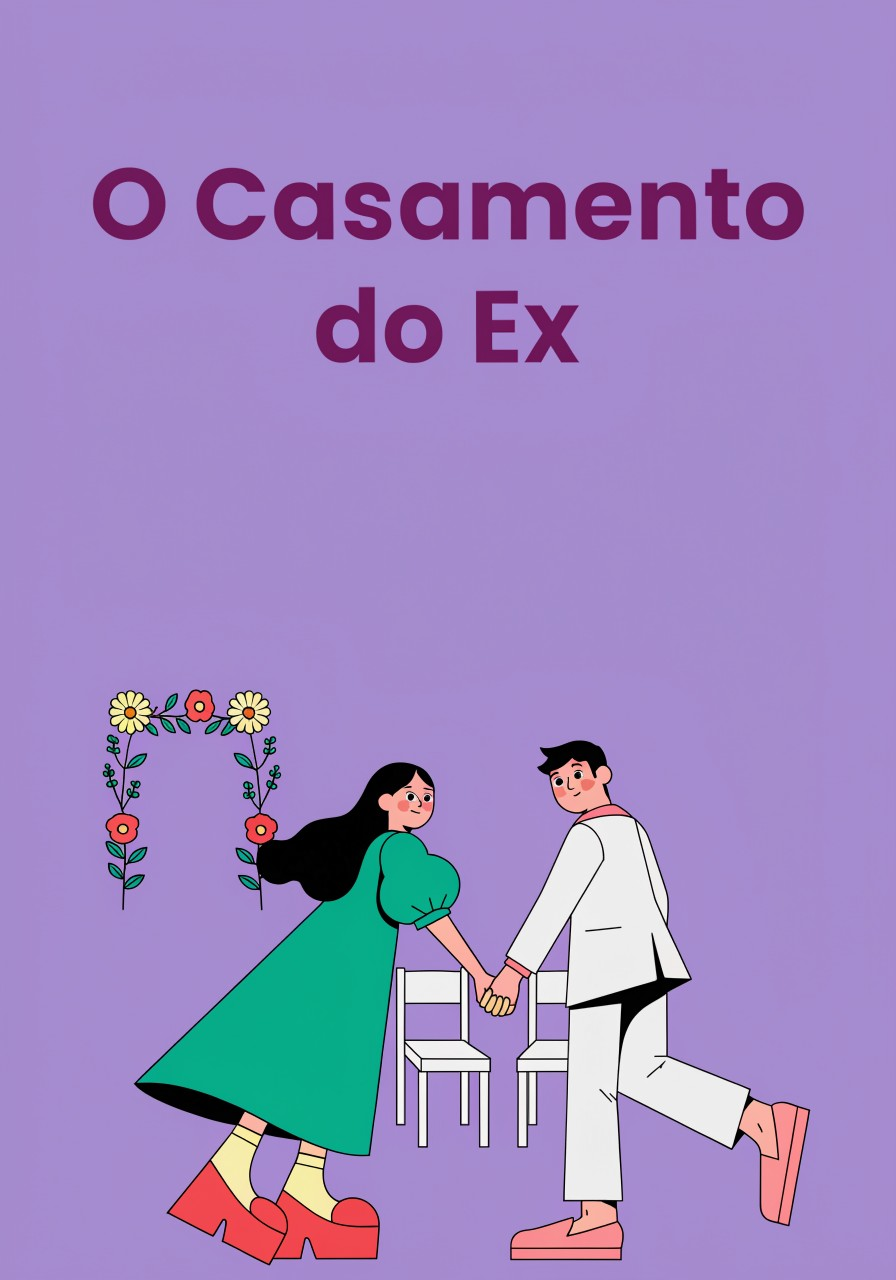
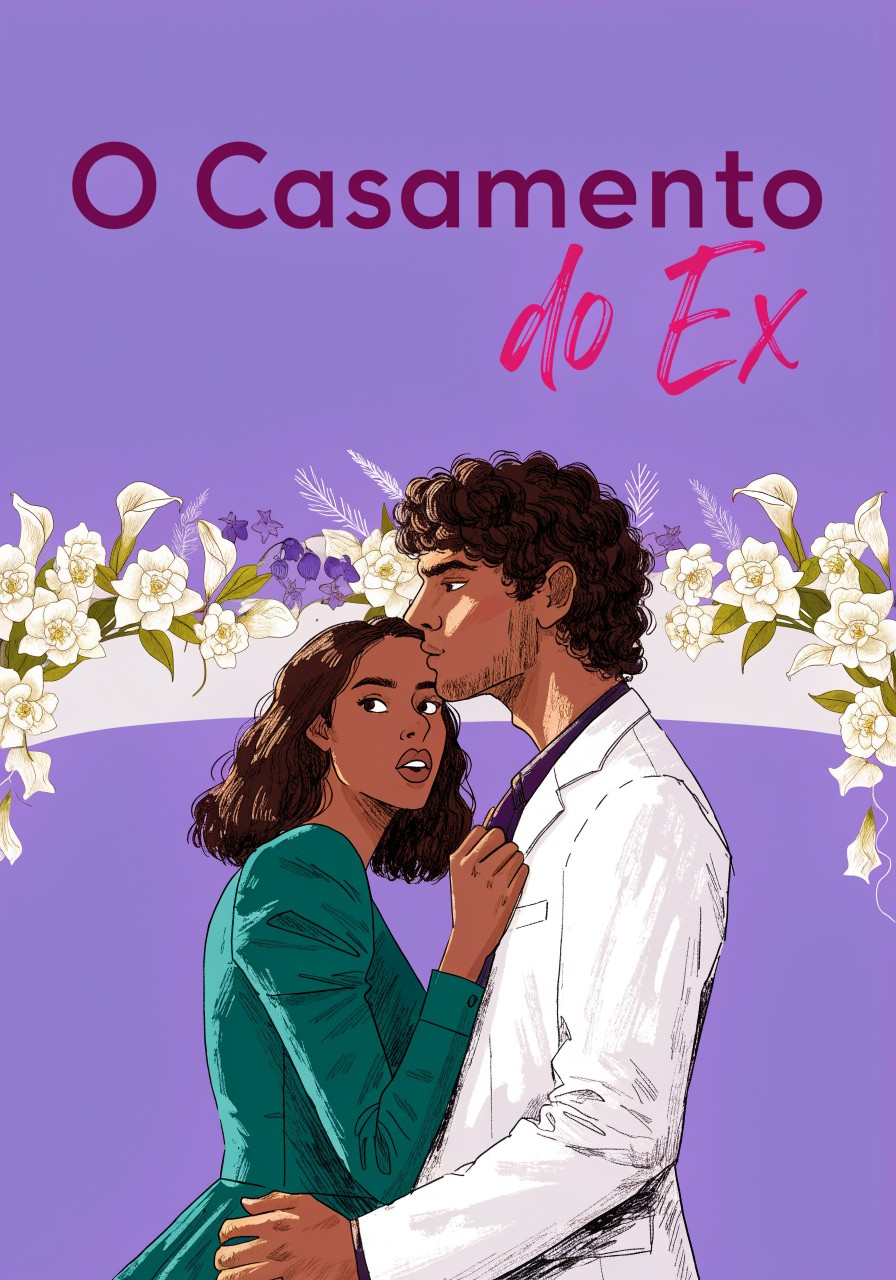
Verso: covers in the Ali Hazelwood-style romance illustration, characters matching the books (Sam Okoro is Black, Ivy Italian-American)
Claude-Session: https://claude.ai/code/session_01EvkiJArXpPYtjMsy1MzJhH

diff --git a/verso/docs/CAPAS.md b/verso/docs/CAPAS.md
@@ -1,45 +1,47 @@
 # Capas ilustradas
 
-**Estilo (definido pela referência da Tânia Tamires / rom-coms contemporâneos):** fundo de UMA cor chapada e saturada, título grande e grosso, casal pequeno em ilustração vetorial chapada, de corpo inteiro, rostos minimalistas, poucos detalhes e muito espaço vazio. Nada pintado, sem gradiente.
+**Estilo atual (referência: capas da Ali Hazelwood):** ilustração semi-realista de um casal grande e próximo (quase beijo / abraço), rostos expressivos, fundo de uma cor viva com poucos adereços, título misturando letra grossa sem serifa com letra manuscrita a pincel.
 
-As capas foram geradas com o modelo gratuito `recraft/recraft-v4.1-flash-v2:free` da OpenRouter (`POST /api/v1/images`, tamanho `896x1280`, o único vertical que ele aceita; proporção 7:10). A chave da OpenRouter nunca é guardada no repositório.
+**Os personagens da capa têm que bater com o livro.** Antes de gerar, escreva no prompt a aparência exata de cada protagonista conforme a história (etnia, tom de pele, cabelo, idade, roupa, objeto que carregam). Exemplo: Sam Okoro (Padrinho e Madrinha) é de origem nigeriana, então é um homem negro de pele escura; Ivy Castellano é ítalo-americana. Capas de livros ainda não escritos (as "em breve") são provisórias: refaça quando os personagens forem definidos.
 
-**Regra do texto:** o gerador inventa texto (nomes de autor, slogans, placas) e às vezes perde palavras do título. Todo prompt exige que o ÚNICO texto seja o título completo, e **cada capa é conferida a olho antes de entrar**. Gere 2 variantes e escolha.
+Geradas com o modelo gratuito `recraft/recraft-v4.1-flash-v2:free` da OpenRouter (`POST /api/v1/images`, `896x1280`, proporção 7:10). A chave nunca é guardada no repositório.
+
+**Regra do texto:** o gerador inventa texto (autor, slogans, placas) e às vezes perde palavras do título. Todo prompt exige que o ÚNICO texto seja o título completo, e **cada capa é conferida a olho**. Gere 2 variantes e escolha.
 
 Salve em `verso/public/capas/<slug>.jpg`; o site usa sozinho.
 
 ## Prompt-base (cole antes da cena)
 ```
-Contemporary romantic comedy book cover, modern flat vector illustration style as in current bestselling rom-coms: ONE solid saturated flat background color covering the whole cover, no gradients, no texture. A big, bold, friendly sans-serif title with comfortable margins (never touching the edges), exactly as written with every word. Below it, a stylized flat-color couple drawn full-body (simple minimal faces, no outlines, chunky colorful shapes), LARGE: the couple fills about 40 percent of the cover height, with only two or three tiny scene details. Graphic poster design, clean and playful. Vertical 7:10.
-STRICT TEXT RULES: the ONLY text on the cover is the title exactly as written, complete, with correct accents. No author name, no publisher, no subtitle, no slogan, no quotation marks, no signs, no extra words anywhere.
+Contemporary romance novel cover illustration in the style of current bestselling rom-com paperbacks: a semi-realistic digital illustration of a couple in a close, intimate embrace, large in the frame (about two thirds of the cover), expressive detailed faces with warm natural skin tones and soft shading over clean line art, hair and clothing with texture and folds. Behind them a saturated solid color background with a few simple props. The title lettering mixes a bold clean sans-serif with a hand-lettered brush script. Polished professional publishing quality. Vertical 7:10.
+STRICT TEXT RULES: the ONLY text on the cover is the title exactly as written, complete, with correct Portuguese accents (and the small top line when given). No author name, no publisher, no tagline, no quotes, no signs, no extra words anywhere.
 ```
 
 ## padrinhos.jpg · Padrinho e Madrinha (Love Story Nº 5)
 ```
-Background: deep cobalt blue. Small top line in cream: "LOVE STORY · Nº 5". Title in cream and warm peach, stacked: "Padrinho" / "& Madrinha". Couple: a woman in a navy dress hugging a thick brown binder with colorful tabs and a man in a dark suit holding a black notebook, standing a few steps apart (a visible gap) on a tiny wooden dock; tiny details: a small white lighthouse, a blue hydrangea bush, a string of warm lights.
+Background: deep cobalt blue with a few pale blue hydrangea blooms and a tiny white lighthouse far behind. Small top line in cream: "LOVE STORY · Nº 5". Title: "Padrinho" in bold cream sans-serif and "& Madrinha" in peach brush script. Characters (be precise): a Black man in his mid-thirties of Nigerian descent, deep brown skin, short black hair, round glasses, rumpled navy suit and loosened tie, holding a black notebook; and a woman in her early thirties of Italian-American descent, olive skin, dark brown hair in a messy bun with loose strands, navy dress, hugging a thick brown binder with colored tabs. They stand very close, foreheads almost touching, on the verge of a kiss, both a little flustered.
 ```
 
 ## a-reclamacao-de-barulho.jpg · A Reclamação de Barulho
 ```
-Background: bright tomato red. Title in cream: "A Reclamação de Barulho". Couple: a woman in workout clothes on a spinning bike with headphones, and a grumpy man in pajamas covering his ears with a pillow standing next to her on a small floor; tiny details: musical notes, a speaker.
+Background: bright tomato red with small white musical notes. Title: "A Reclamação" in bold cream sans-serif and "de Barulho" in white brush script. Characters: a Brazilian woman with brown skin and long curly dark hair in a high ponytail, in a bright yellow workout top with headphones around her neck; and a tired man with warm light-brown skin, dark messy hair, stubble and a rumpled gray t-shirt, one earplug in. They lean toward each other, arguing with their faces very close, hands on her shoulders.
 ```
 
 ## o-teste-de-visto.jpg · O Teste de Visto
 ```
-Background: sunny mustard yellow. Title in deep navy blue in two lines: "O Teste" / "de Visto". Couple: a woman in a pink sweater and a man in a green jacket sitting stiffly side by side on a bright blue sofa, holding hands awkwardly with worried smiles; tiny details: two mismatched coffee mugs and a small framed photo.
+Background: sunny mustard yellow with a few small kitchen props. Title: "O Teste" in bold navy sans-serif and "de Visto" in deep blue brush script. Characters: a young woman of South Asian descent with light brown skin, long black hair and a green cardigan; and a man with fair skin and curly auburn hair in a flannel shirt. They sit pressed together pretending to be a couple, hands clasped, looking at each other with nervous half-smiles.
 ```
 
 ## a-aposta-do-escritorio.jpg · A Aposta do Escritório
 ```
-Background: bold orange. Title in cream in two lines: "A Aposta" / "do Escritório". Couple: a woman in a white blouse and a man in a blue shirt sitting close at a small desk with hands clasped under it, nervous smiles; tiny details: two balloons and a few tiny coworkers peeking from behind a small partition.
+Background: bold orange with small office plant and balloon props. Title: "A Aposta" in bold cream sans-serif and "do Escritório" in white brush script. Characters: a Black woman with short natural curls, in a white blouse; and a man with light skin and dark hair in a blue shirt with rolled sleeves. They hold hands under a desk and look at each other with conspiratorial smiles, faces close.
 ```
 
 ## o-casamento-do-ex.jpg · O Casamento do Ex
 ```
-Background: soft lilac violet. Title in deep plum in two lines: "O Casamento" / "do Ex". Couple: a woman in an emerald green dress and a man in a white suit tiptoeing away together hand in hand and glancing back with guilty smiles; tiny details: a small floral wedding arch and two white chairs.
+Background: soft lilac violet with white wedding flowers. Title: "O Casamento" in bold deep-plum sans-serif and "do Ex" in pink brush script. Characters: a woman with medium-brown skin and wavy dark hair in an emerald green bridesmaid dress; and a man with olive skin, dark hair and a rumpled white suit jacket. They embrace behind a floral arch, her hand on his lapel, about to kiss, glancing guiltily aside.
 ```
 
 ## a-viagem-de-onibus.jpg · A Viagem de Ônibus
 ```
-Background: vivid teal. Title in cream: "A Viagem de Ônibus". Couple: a backpacker woman with a big map and a grumpy man in a shirt and tie gripping his armrest, sitting side by side in a double bus seat; tiny details: a bus window with stars, a small backpack.
+Background: vivid teal with a few stars. Title: "A Viagem" in bold cream sans-serif and "de Ônibus" in coral brush script. Characters: a backpacker woman with light brown skin, freckles and a messy braid, travel scarf; and a man in a loosened tie and white shirt with dark skin and short hair. They are squeezed together in a bus seat, shoulders touching, looking at each other with reluctant smiles.
 ```
